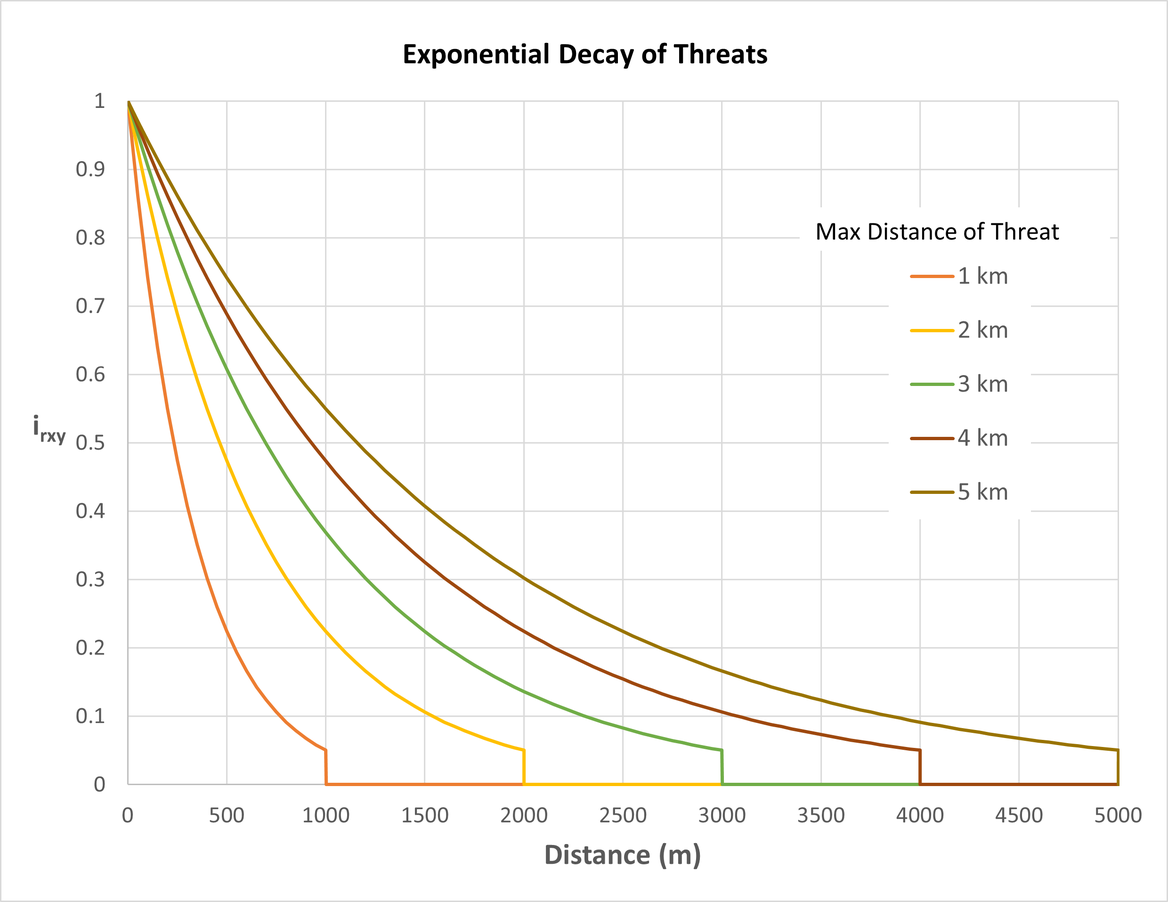
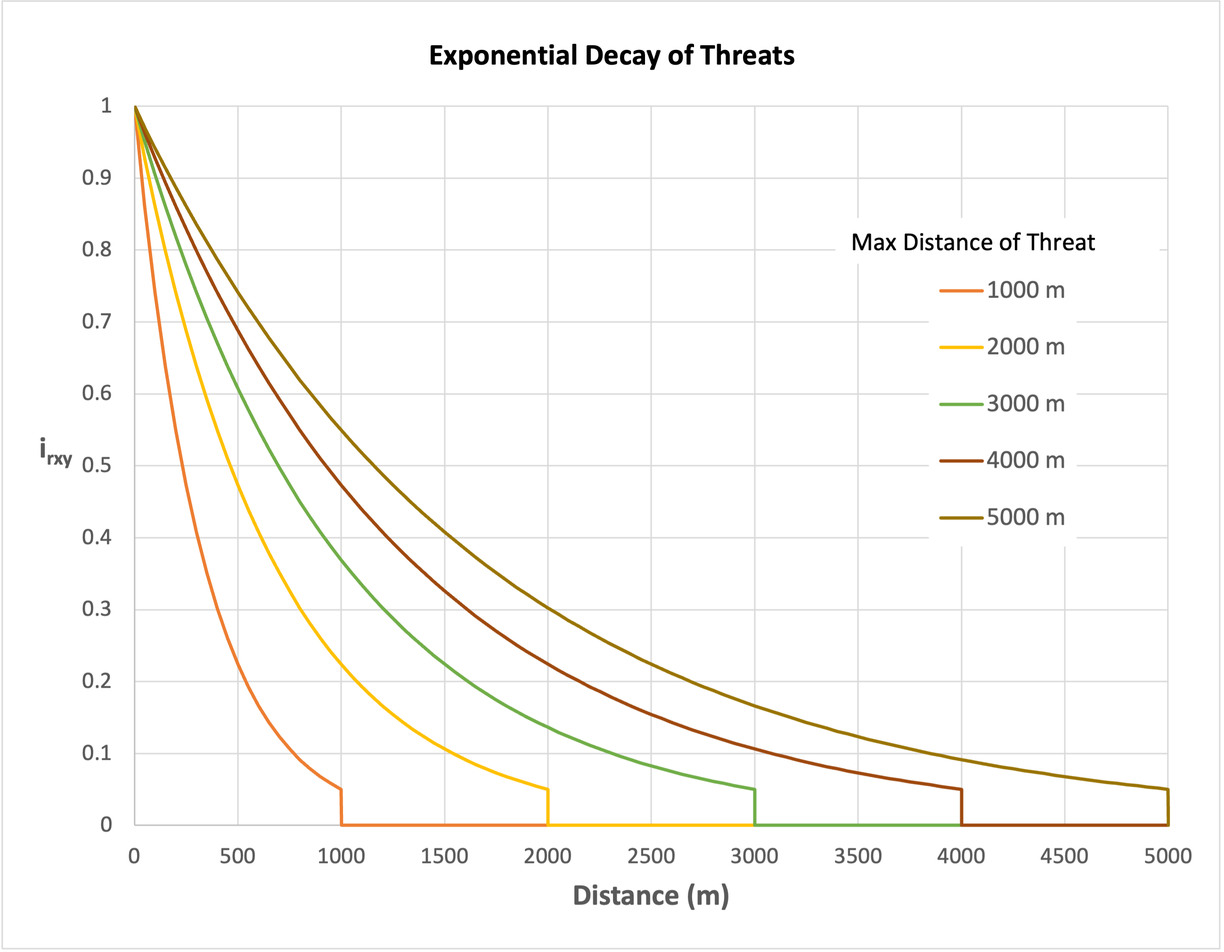
Update HQ (including graphs) to reflect change in MAX_DIST units

diff --git a/source/es/habitat_quality.rst b/source/es/habitat_quality.rst
@@ -57,26 +57,26 @@ Además de un mapa de LULC y de datos que relacionen LULC con la idoneidad del h
 
 Cada fuente de amenaza debe ser mapeada en una cuadrícula ráster. El valor de una celda de la cuadrícula en el mapa de una amenaza puede indicar la intensidad de la amenaza dentro de la celda (por ejemplo, la longitud de la carretera en una celda de la cuadrícula o la superficie cultivada en una celda de la cuadrícula) o simplemente un 1 si la celda de la cuadrícula contiene la amenaza en una carretera o en la cobertura de un campo de cultivo y un 0 en caso contrario. Dejemos que :math:`o_{ry}` indique la "calificación" de la amenaza :math:`r` en la celda de la cuadrícula :math:`y` donde :math:`r` = 1, 2, ..., :math:`R` indexa todas las fuentes de degradación modelizadas.
 
-Todas las amenazas mapeadas deben medirse en la misma escala y métrica. Por ejemplo, si una amenaza se mide en densidad por celda de cuadrícula, entonces todas las fuentes de degradación deberían medirse en densidad por celda de cuadrícula donde la densidad se mide con la misma unidad métrica (por ejemplo, km and km\ :sup:`2`\). O si una amenaza se mide con presencia/ausencia (1/0) en su mapa, entonces todas las amenazas deben ser mapeadas con la escala de presencia/ausencia.
+Todas las amenazas mapeadas deben medirse en la misma escala y métrica. Por ejemplo, si una amenaza se mide en densidad por celda de cuadrícula, entonces todas las fuentes de degradación deberían medirse en densidad por celda de cuadrícula donde la densidad se mide con la misma unidad métrica (por ejemplo, m y m\ :sup:`2`\). O si una amenaza se mide con presencia/ausencia (1/0) en su mapa, entonces todas las amenazas deben ser mapeadas con la escala de presencia/ausencia.
 
 El impacto de las amenazas sobre el hábitat en una celda de la cuadrícula está mediado por cuatro factores.
 
 1. El primer factor es **el impacto relativo de cada amenaza**. Algunas amenazas pueden ser más perjudiciales para el hábitat, en igualdad de condiciones, y una calificación de impacto relativo lo tiene en cuenta (véase la Tabla 1 para una lista de posibles amenazas). Por ejemplo, las zonas urbanas pueden considerarse dos veces más degradantes para cualquier hábitat cercano que las zonas agrícolas. El peso de una fuente de degradación, :math:`w_r`, indica la destructividad relativa de una fuente de degradación para todos los hábitats. El peso :math:`w_r` puede tomar cualquier valor entre 0 y 1. Por ejemplo, si la zona urbana tiene un peso de amenaza de 1 y el peso de amenaza de las carreteras se fija en 0,5, entonces la zona urbana causa el doble de perturbación, en igualdad de condiciones, a todos los tipos de hábitat. Para reiterar, si hemos asignado calificaciones de idoneidad de hábitat específicas para cada grupo de especies a cada LULC, entonces las amenazas y sus pesos deben ser específicos para el grupo de especies modelizado.
 
-2. El segundo factor de mitigación es **la distancia entre el hábitat y la fuente de la amenaza y el impacto de la amenaza en el espacio**. En general, el impacto de una amenaza sobre el hábitat disminuye a medida que aumenta la distancia de la fuente de degradación, de modo que las celdas de la cuadrícula que están más próximas a las amenazas experimentarán mayores impactos. Por ejemplo, supongamos que una cuadrícula está a 2 km del borde de una zona urbana y a 0,5 km de una autopista. El impacto de estas dos fuentes de amenaza en el hábitat de la celda de la cuadrícula dependerá en parte de la rapidez con la que disminuyan, o decaigan, en el espacio. Usted puede elegir una función lineal o exponencial de disminución de la distancia para describir cómo decae una amenaza en el espacio. El impacto de la amenaza :math:`r` que se origina en la celda de la cuadrícula :math:`y`, :math:`r_y`, sobre el hábitat en la celda de la cuadrícula :math:`x` viene dado por :math:`i_{rxy}` y está representado por las siguientes ecuaciones:
+2. El segundo factor de mitigación es **la distancia entre el hábitat y la fuente de la amenaza y el impacto de la amenaza en el espacio**. En general, el impacto de una amenaza sobre el hábitat disminuye a medida que aumenta la distancia de la fuente de degradación, de modo que las celdas de la cuadrícula que están más próximas a las amenazas experimentarán mayores impactos. Por ejemplo, supongamos que una cuadrícula está a 2000 m del borde de una zona urbana y a 500 m de una autopista. El impacto de estas dos fuentes de amenaza en el hábitat de la celda de la cuadrícula dependerá en parte de la rapidez con la que disminuyan, o decaigan, en el espacio. Usted puede elegir una función lineal o exponencial de disminución de la distancia para describir cómo decae una amenaza en el espacio. El impacto de la amenaza :math:`r` que se origina en la celda de la cuadrícula :math:`y`, :math:`r_y`, sobre el hábitat en la celda de la cuadrícula :math:`x` viene dado por :math:`i_{rxy}` y está representado por las siguientes ecuaciones:
 
 .. math:: i_{rxy}=1-\left( \frac{d_{xy}}{d_{r\ \mathrm{max}}}\right)\ \mathrm{if\ linear}
 	:label: (hq. 1)
-	
+
 .. math:: i_{rxy}=exp\left(-\left(\frac{2.99}{d_{r\ \mathrm{max}}}\right)d_{xy}\right)\mathrm{if\ exponential}
 	:label: (hq. 2)
 
-	
-donde :math:`d_{xy}` es la distancia lineal entre las celdas de la cuadrícula :math:`x` y :math:`y` y :math:`d_{r}` es la distancia efectiva máxima del alcance de la amenaza :math:`r` en el espacio. La Figura 1 ilustra la relación entre la tasa de decaimiento de la distancia de una amenaza en función de la distancia efectiva máxima de la misma (lineal y exponencial). Por ejemplo, si se selecciona una disminución exponencial y la distancia máxima de impacto de una amenaza se establece en 1 km, el impacto de la amenaza en el hábitat de una celda de la cuadrícula disminuirá en un ~ 50% cuando la celda de la cuadrícula esté a 200 m del origen de :math:`r`. Si :math:`i_{rxy} > 0` entonces la celda de la cuadrícula :math:`x` está en la zona de perturbación de la fuente de degradación :math:`ry` (si se utiliza la función exponencial para describir el impacto de la fuente de degradación :math:`r` en el paisaje, entonces el modelo ignora los valores de :math:`i_{rxy}` que están muy cerca de 0 para agilizar el proceso de modelización). Para reiterar, si hemos asignado calificaciones de idoneidad de hábitat específicas para cada grupo de especies a cada LULC, entonces el impacto de la amenaza en el espacio debería ser específico para el grupo de especies modelizado.
+
+donde :math:`d_{xy}` es la distancia lineal entre las celdas de la cuadrícula :math:`x` y :math:`y` y :math:`d_{r}` es la distancia efectiva máxima del alcance de la amenaza :math:`r` en el espacio. La Figura 1 ilustra la relación entre la tasa de decaimiento de la distancia de una amenaza en función de la distancia efectiva máxima de la misma (lineal y exponencial). Por ejemplo, si se selecciona una disminución exponencial y la distancia máxima de impacto de una amenaza se establece en 1000 m, el impacto de la amenaza en el hábitat de una celda de la cuadrícula disminuirá en un ~ 50% cuando la celda de la cuadrícula esté a 200 m del origen de :math:`r`. Si :math:`i_{rxy} > 0` entonces la celda de la cuadrícula :math:`x` está en la zona de perturbación de la fuente de degradación :math:`ry` (si se utiliza la función exponencial para describir el impacto de la fuente de degradación :math:`r` en el paisaje, entonces el modelo ignora los valores de :math:`i_{rxy}` que están muy cerca de 0 para agilizar el proceso de modelización). Para reiterar, si hemos asignado calificaciones de idoneidad de hábitat específicas para cada grupo de especies a cada LULC, entonces el impacto de la amenaza en el espacio debería ser específico para el grupo de especies modelizado.
 
 |
 
-.. figure:: ./habitat_quality/graph.png
+.. figure:: ./habitat_quality/HQ-exponential-decay_es.png
    :align: center
    :figwidth: 500px
 
@@ -114,7 +114,7 @@ y :math:`z` (codificamos :math:`z = 2.5`) y :math:`k` son parámetros de escala 
    :header-rows: 1
    :widths: auto
 
-Tabla 1. Posibles fuentes de degradación basadas en las causas de peligro para las especies en EE.UU. clasificadas como amenazadas o en peligro por el Servicio de Pesca y Vida Silvestre de EE.UU. Adaptado de Czech et al. (2000). 
+Tabla 1. Posibles fuentes de degradación basadas en las causas de peligro para las especies en EE.UU. clasificadas como amenazadas o en peligro por el Servicio de Pesca y Vida Silvestre de EE.UU. Adaptado de Czech et al. (2000).
 
 |
 
@@ -164,7 +164,7 @@ Necesidades de datos
 - :investspec:`habitat_quality threats_table_path`
 
 .. note:: Las localizaciones del sistema de ficheros para *cur_path*, *base_path* y *fut_path* son relativas a la localización de la **Tabla de Amenazas**. Por ejemplo, si *cur_path* es "amenaza1.tif", significa que "amenaza.tif" se encuentra en la misma carpeta que la **Tabla de Amenazas**. Si *cur_path* es "carpeta_amenazas/amenaza1.tif", significa que hay una carpeta "carpeta_amenazas" en la misma ubicación que la **Tabla de Amenazas**, y que "amenaza1.tif" se encuentra dentro de "carpeta_amenazas". También puede proporcionar rutas absolutas, como "C:/HabitatQuality/carpeta_amenazas/amenaza1.tif".
-  
+
   Columnas:
 
   - :investspec:`habitat_quality threats_table_path.columns.threat`
@@ -176,7 +176,7 @@ Necesidades de datos
   - :investspec:`habitat_quality threats_table_path.columns.fut_path`
 
   **Estudio de ejemplo**
-  
+
   Estudio hipotético con tres amenazas para los escenarios actuales y futuros. La agricultura (*Agric* en la tabla) degrada el hábitat a mayor distancia que las carreteras y tiene una mayor magnitud de impacto global. Además, las carreteras pavimentadas (*Paved_rd*) atraen más tráfico que los caminos de tierra (*Dirt_rd*) y, por tanto, son más destructivas para el hábitat cercano que los caminos de tierra. Las rutas de archivos son relativas a la tabla de datos de amenazas, por lo que en este caso las amenazas actuales se encuentran en el mismo directorio que la tabla y las amenazas futuras se encuentran en un subdirectorio adyacente a la tabla de datos de amenazas llamado *future*. Las rutas de los archivos de las amenazas de la línea de base se dejan en blanco porque no tenemos rasters de amenazas para ese escenario O no hemos incluido la línea de base LULC en nuestra ejecución del modelo.
 
   ========   ========  ===========  =========== ============ =================  =======================
@@ -188,13 +188,13 @@ Necesidades de datos
   ========   ========  ===========  =========== ============ =================  =======================
 
 **Información de los rásters de amenazas**
-  
+
   Archivos ráster SIG de la distribución e intensidad de cada amenaza individual, con valores entre 0 y 1. Tendrá tantos de estos mapas como amenazas tenga y la ruta de los archivos ráster debe definirse en la tabla **Datos de amenazas**. La extensión y resolución de estos conjuntos de datos ráster no tiene por qué ser idéntica a la de los mapas LULC de input. En los casos en que las resoluciones de los mapas de amenazas y LULC varíen, el modelo utilizará la resolución y la extensión del mapa LULC. Cada celda del ráster contiene un valor que indica la densidad o la presencia de una amenaza en su interior (por ejemplo, la superficie agrícola, la longitud de las carreteras, o simplemente un 1 si la celda de la cuadrícula es una carretera o un campo de cultivo y un 0 en caso contrario). Todas las amenazas deben medirse en la misma escala y unidades (es decir, todas se miden en términos de densidad o todas se miden en términos de presencia/ausencia) y no una combinación de métricas. No deje ninguna zona en los mapas de amenazas como "Sin datos". Si los píxeles no contienen esa amenaza, establezca el nivel de amenaza de los píxeles como 0.
-	
+
   InVEST no le pedirá estos rásters en la interfaz de la herramienta, sino que buscará sus rutas de archivo en la tabla de **Datos de amenazas** bajo las columnas de los escenarios correspondientes. Las rutas deben ser **relativas** a la ruta de la tabla de **Amenazas**.
-  
+
   Por último, tenga en cuenta que asumimos que las ponderaciones relativas de las amenazas y la sensibilidad del hábitat a las amenazas no cambian con el tiempo, por lo que solo presentamos una tabla de datos de amenazas y una tabla de datos de sensibilidad del hábitat. Si quiere cambiarlos a lo largo del tiempo, tendrá que ejecutar el modelo varias veces.
-	
+
   En los conjuntos de datos de muestra, los rásters de amenazas se almacenan en el mismo directorio que la tabla de datos de Amenazas y se definen en la tabla de datos de Amenazas bajo el nombre de la columna correspondiente de la siguiente manera: **RUTA_ACTUAL**: crops_c.tif; railroad_c.tif; urban_c.tif; timber_c.tif; roads1_c.tif; roads2_c.tif; roads3_c.tif; **RUTA_FUTURA**: crops_f.tif; railroad_f.tif; urban_f.tif; timber_f.tif; roads1_f.tif; roads2_f.tif; roads3_f.tif. Al introducir los archivos LULC de referencia y de escenario futuro que se encuentran en el conjunto de datos de muestra, estamos ejecutando un análisis de la calidad del hábitat para los mapas de escenario LULC actuales y futuros. No se generará un mapa de calidad del hábitat para el mapa de referencia porque no hemos proporcionado ninguna capa de amenazas para el mapa de referencia y hemos dejado esas columnas en blanco en la tabla de datos de amenazas. La denominación "cultivos" se refiere a las tierras de cultivo, "ferrocarril" a las vías férreas, "urbano" a lo urbano, "madera" a la silvicultura de rotación, "carreteras1" a las carreteras primarias, "carreteras2" a las secundarias y "carreteras3" a las terciarias.
 
 - :investspec:`habitat_quality sensitivity_table_path`
@@ -218,13 +218,13 @@ Necesidades de datos
   ====    ================ ======= ======= ==========  =========
 
 - :investspec:`habitat_quality access_vector_path` A los polígonos con accesibilidad mínima (por ejemplo, reservas naturales estrictas, tierras privadas bien protegidas) se les asigna algún número inferior a 1, mientras que a los polígonos con accesibilidad máxima (por ejemplo, reservas extractivas) se les asigna el valor 1. Estos polígonos pueden ser unidades de manejo de la tierra o un conjunto regular de hexágonos o cuadrículas.
-  
+
   Campo:
 
   - :investspec:`habitat_quality access_vector_path.fields.access`
 
 
-- :investspec:`habitat_quality half_saturation_constant` Es :math:`k` en la ecuación :eq:`(hq. 4)`. El valor por defecto es 0,05. En general, se desea establecer :math:`k` a la mitad del valor más alto de degradación de la celda de la cuadrícula en el paisaje. Para realizar esta calibración del modelo tendrá que ejecutar el modelo una vez para encontrar el valor de degradación más alto y establecer :math:`k` para su paisaje. Por ejemplo, si una ejecución preliminar del modelo genera un mapa de degradación en el que el nivel más alto de degradación de las celdas de la cuadrícula es 1, entonces establecer :math:`k` en 0,5 producirá mapas de calidad del hábitat con la mayor variación en la escala de 0 a 1 (esto ayuda a la representación visual de la heterogeneidad en la calidad a través del paisaje). Es importante señalar que el orden de clasificación de las celdas de la cuadrícula en la métrica de calidad del hábitat es invariable a su elección de :math:`k`. La elección de :math:`k` solo determina la dispersión y la tendencia central de las calificaciones de calidad del hábitat. Es importante utilizar el mismo valor de :math:`k` para todas las ejecuciones que incluyan el mismo paisaje. Si quiere cambiar su elección de :math:`k` para cualquier ejecución del modelo, entonces deberá cambiar los parámetros para todas las ejecuciones del modelo. 
+- :investspec:`habitat_quality half_saturation_constant` Es :math:`k` en la ecuación :eq:`(hq. 4)`. El valor por defecto es 0,05. En general, se desea establecer :math:`k` a la mitad del valor más alto de degradación de la celda de la cuadrícula en el paisaje. Para realizar esta calibración del modelo tendrá que ejecutar el modelo una vez para encontrar el valor de degradación más alto y establecer :math:`k` para su paisaje. Por ejemplo, si una ejecución preliminar del modelo genera un mapa de degradación en el que el nivel más alto de degradación de las celdas de la cuadrícula es 1, entonces establecer :math:`k` en 0,5 producirá mapas de calidad del hábitat con la mayor variación en la escala de 0 a 1 (esto ayuda a la representación visual de la heterogeneidad en la calidad a través del paisaje). Es importante señalar que el orden de clasificación de las celdas de la cuadrícula en la métrica de calidad del hábitat es invariable a su elección de :math:`k`. La elección de :math:`k` solo determina la dispersión y la tendencia central de las calificaciones de calidad del hábitat. Es importante utilizar el mismo valor de :math:`k` para todas las ejecuciones que incluyan el mismo paisaje. Si quiere cambiar su elección de :math:`k` para cualquier ejecución del modelo, entonces deberá cambiar los parámetros para todas las ejecuciones del modelo.
 
 .. _hq-interpreting-results:
 
@@ -241,15 +241,15 @@ Interpretación de los resultados
 * Carpeta **[Espacio de trabajo]\\resultados**:
 
   * **deg_sum_out_c_[Sufijo].tif** -- Nivel relativo de degradación del hábitat en el paisaje actual. Una calificación alta en una celda de la cuadrícula significa que la degradación del hábitat en la celda es alta en relación con otras celdas. Las celdas de la cuadrícula con cobertura de tierra sin hábitat (LULC con :math:`H_j` = 0) obtienen una calificación de degradación de 0. Este es un mapeo de las calificaciones de degradación calculadas con la ecuación (3).
-	
+
   * **deg_sum_out_f_[Sufijo].tif** -- Nivel relativo de degradación del hábitat en el paisaje futuro. Una calificación alta en una celda de la cuadrícula significa que la degradación del hábitat en la celda es alta en relación con otras celdas. Este resultado solo se crea si se da un mapa LULC futuro como input. Las celdas de la cuadrícula con cobertura de tierra sin hábitat (LULC con :math:`H_j` = 0) obtienen una calificación de degradación de 0. Este es un mapeo de las calificaciones de degradación calculadas con la ecuación (3).
 
   * **quality_out_c_[Sufijo].tif** -- Nivel relativo de la calidad del hábitat en el paisaje actual. Los números más altos indican una mejor calidad del hábitat con respecto a la distribución de la calidad del hábitat en el resto del paisaje. Las zonas del paisaje que no son hábitat reciben una calificación de calidad de 0. Esta calificación de calidad no tiene unidad y no se refiere a ninguna medida de biodiversidad en particular. Se trata de un mapeo de las calificaciones de calidad del hábitat calculadas con la ecuación (4).
-	
+
   * **quality_out_f_[Sufijo.tif** -- Nivel relativo de calidad del hábitat en el paisaje futuro. Los números más altos indican una mejor calidad del hábitat con respecto a la distribución de la calidad del hábitat en el resto del paisaje. Este resultado solo se crea si se da un mapa LULC futuro como input. Las zonas del paisaje que no son hábitat reciben una calificación de calidad de 0. Esta calificación de calidad no tiene unidad y no se refiere a ninguna medida de biodiversidad en particular. Se trata de un mapero de las calificaciones de calidad del hábitat calculadas con la ecuación (4).
 
   * **rarity_c_[Sufijo].tif** -- Rareza relativa del hábitat en el paisaje actual con respecto al mapa de referencia. Este resultado solo se crea si se da un mapa LULC de referencia como input. Este mapa proporciona el valor de :math:`R_x` de cada cuadrícula (véase la ecuación (6)).  Los valores de las celdas de la cuadrícula se definen entre un rango de 0 y 1, donde 0,5 indica que no hay cambios en la abundancia entre el mapa de referencia y el actual o el proyectado. Los valores entre 0 y 0,5 indican que un hábitat es más abundante y cuanto más cerca esté el valor de 0, menor será la probabilidad de que la conservación de ese tipo de hábitat en el paisaje actual o futuro sea importante para la conservación de la biodiversidad. Los valores entre 0,5 y 1 indican que un hábitat es menos abundante y cuanto más se acerque el valor a 1, mayor será la probabilidad de que la preservación de ese tipo de hábitat en el paisaje actual o futuro sea importante para la conservación de la biodiversidad. Si el tipo de hábitat LULC no aparece en el paisaje de referencia, el valor de la casilla será 0.
-	
+
   * **rarity_f_[Sufijo].tif** -- Rareza relativa del hábitat en el paisaje futuro con respecto al mapa de referencia. Este resultado solo se crea si se dan como input los mapas de LULC de la línea base y futuros. Este mapa proporciona el valor de :math:`R_x` de cada cuadrícula (véase la ecuación (6)).  Los valores de las celdas de la cuadrícula se definen entre un rango de 0 y 1, donde 0,5 indica que no hay cambios en la abundancia entre el mapa de referencia y el actual o el proyectado. Los valores entre 0 y 0,5 indican que un hábitat es más abundante y cuanto más cerca esté el valor de 0, menor será la probabilidad de que la preservación de ese tipo de hábitat en el paisaje actual o futuro sea importante para la conservación de la biodiversidad. Los valores entre 0,5 y 1 indican que un hábitat es menos abundante y cuanto más se acerque el valor a 1, mayor será la probabilidad de que la preservación de ese tipo de hábitat en el paisaje actual o futuro sea importante para la conservación de la biodiversidad. Si el tipo de hábitat LULC no aparece en el paisaje de referencia, el valor de la casilla será 0.
 
 * carpeta **[Espacio_de_trabajo]\\intermedio** :

diff --git a/source/en/habitat_quality.rst b/source/en/habitat_quality.rst
@@ -56,13 +56,13 @@ Besides a map of LULC and data that relates LULC to habitat suitability, the mod
 
 Each threat source needs to be mapped on a raster grid. A grid cell value on a threat's map can either indicate intensity of the threat within the cell (e.g., road length in a grid cell or cultivated area in a gird cell) or simply a 1 if the grid cell contains the threat in a road or crop field cover and 0 otherwise. Let :math:`o_{ry}` indicate threat :math:`r`'s "score" in grid cell :math:`y` where :math:`r` = 1, 2, ..., :math:`R` indexes all modeled degradation sources.
 
-All mapped threats should be measured in the same scale and metric. For example, if one threat is measured in density per grid cell then all degradation sources should be measured in density per grid cell where density is measured with the same metric unit (e.g., km and km\ :sup:`2`\). Or if one threat is measured with presence/absence (1/0) on its map then all threats should be mapped with the presence/absence scale.
+All mapped threats should be measured in the same scale and metric. For example, if one threat is measured in density per grid cell then all degradation sources should be measured in density per grid cell where density is measured with the same metric unit (e.g., m and m\ :sup:`2`\). Or if one threat is measured with presence/absence (1/0) on its map then all threats should be mapped with the presence/absence scale.
 
 The impact of threats on habitat in a grid cell is mediated by four factors.
 
 1. The first factor is **the relative impact of each threat**. Some threats may be more damaging to habitat, all else equal, and a relative impact score accounts for this (see Table 1 for a list of possible threats). For instance, urban areas may be considered to be twice as degrading to any nearby habitats as agricultural areas. A degradation source's weight, :math:`w_r`, indicates the relative destructiveness of a degradation source to all habitats. The weight :math:`w_r` can take on any value from 0 to 1. For example, if urban area has a threat weight of 1 and the threat weight of roads is set equal to 0.5 then the urban area causes twice the disturbance, all else equal, to all habitat types. To reiterate, if we have assigned species group-specific habitat suitability scores to each LULC then the threats and their weights should be specific to the modeled species group.
 
-2. The second mitigating factor is **the distance between habitat and the threat source and the impact of the threat across space**. In general, the impact of a threat on habitat decreases as distance from the degradation source increases, so that grid cells that are more proximate to threats will experience higher impacts. For example, assume a grid cell is 2 km from the edge of an urban area and 0.5 km from a highway. The impact of these two threat sources on habitat in the grid cell will partly depend on how quickly they decrease, or decay, over space. The user can choose either a linear or exponential euclidean distance-decay function to describe how a threat decays over space. The impact of threat :math:`r` that originates in grid cell :math:`y`, :math:`r_y`, on habitat in grid cell :math:`x` is given by :math:`i_{rxy}` and is represented by the following equations:
+2. The second mitigating factor is **the distance between habitat and the threat source and the impact of the threat across space**. In general, the impact of a threat on habitat decreases as distance from the degradation source increases, so that grid cells that are more proximate to threats will experience higher impacts. For example, assume a grid cell is 2,000 m from the edge of an urban area and 500 m from a highway. The impact of these two threat sources on habitat in the grid cell will partly depend on how quickly they decrease, or decay, over space. The user can choose either a linear or exponential euclidean distance-decay function to describe how a threat decays over space. The impact of threat :math:`r` that originates in grid cell :math:`y`, :math:`r_y`, on habitat in grid cell :math:`x` is given by :math:`i_{rxy}` and is represented by the following equations:
 
 .. math:: i_{rxy}=1-\left( \frac{d_{xy}}{d_{r\ \mathrm{max}}}\right)\ \mathrm{if\ linear}
 	:label: (hq. 1)
@@ -71,7 +71,7 @@ The impact of threats on habitat in a grid cell is mediated by four factors.
 	:label: (hq. 2)
 
 
-where :math:`d_{xy}` is the linear distance between grid cells :math:`x` and :math:`y` and :math:`d_{r\ \mathrm{max}}` is the maximum effective distance of threat :math:`r`'s reach across space. For exponential decay, the constant of 2.99 reduces the impact of the threat by 95% (to 5%) at the specified maximum effective distance. This is based on the traditional 95% cutoff used in statistics. The threat's impact beyond the maximum effective distance is set to 0 by the model. Figure 1 illustrates the exponential relationship between the distance-decay rate for a threat based on the maximum effective distance of the threat. For example, if the user selects an exponential decline and the maximum impact distance of a threat is set at 1 km, the impact of the threat on a grid cell's habitat will decline by ~ 55% when the grid cell is 200 m from :math:`r`'s source. If :math:`i_{rxy} > 0` then grid cell :math:`x` is in degradation source :math:`ry`'s disturbance zone. (If the exponential function is used to describe the impact of degradation source :math:`r` on the landscape then the model ignores values of :math:`i_{rxy}` that are very close to 0 in order to expedite the modeling process.) To reiterate, if we have assigned species group-specific habitat suitability scores to each LULC then threat impact over space should be specific to the modeled species group.
+where :math:`d_{xy}` is the linear distance between grid cells :math:`x` and :math:`y` and :math:`d_{r\ \mathrm{max}}` is the maximum effective distance of threat :math:`r`'s reach across space. For exponential decay, the constant of 2.99 reduces the impact of the threat by 95% (to 5%) at the specified maximum effective distance. This is based on the traditional 95% cutoff used in statistics. The threat's impact beyond the maximum effective distance is set to 0 by the model. Figure 1 illustrates the exponential relationship between the distance-decay rate for a threat based on the maximum effective distance of the threat. For example, if the user selects an exponential decline and the maximum impact distance of a threat is set at 1,000 m, the impact of the threat on a grid cell's habitat will decline by ~ 55% when the grid cell is 200 m from :math:`r`'s source. If :math:`i_{rxy} > 0` then grid cell :math:`x` is in degradation source :math:`ry`'s disturbance zone. (If the exponential function is used to describe the impact of degradation source :math:`r` on the landscape then the model ignores values of :math:`i_{rxy}` that are very close to 0 in order to expedite the modeling process.) To reiterate, if we have assigned species group-specific habitat suitability scores to each LULC then threat impact over space should be specific to the modeled species group.
 
 |
 
